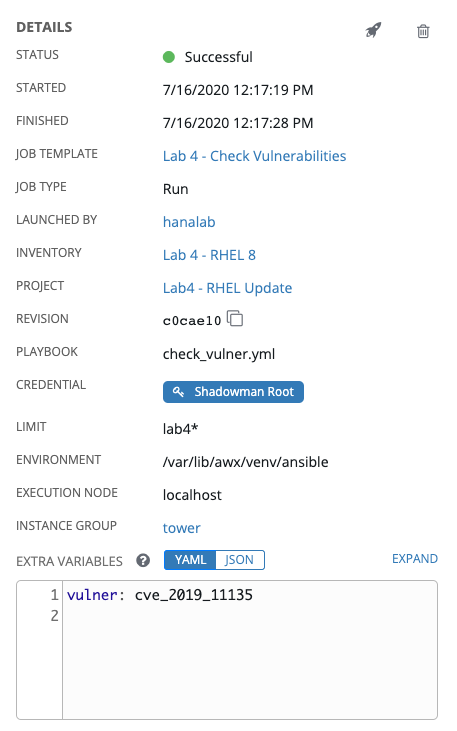
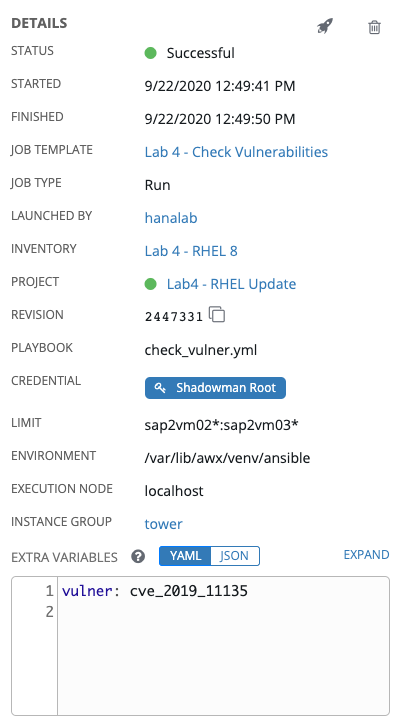
revise Lab 4 Guide to work on sap2vm* and remove the need to reset the VMS. rename the original lab 4 as 4-live-kernel-alt

diff --git a/exercises/4-live-kernel-alt/README.md b/exercises/4-live-kernel-alt/README.md
@@ -74,7 +74,10 @@ playbook.
 Step 7:
 -------
 
-When the job has successfully completed, you should see which systems are vulnerable (yes/no).
+When the job has successfully completed, you should see which systems are vulnerable:
+
+0: not vulnerable
+1: vulnerable
 
 Validating Smart Inventory
 ======================
@@ -122,19 +125,9 @@ Click the rocketship icon ![Add](images/at_launch_icon.png) for the
 Step 3:
 -------
 
-When prompted, confirm Limit and click **Next**.
-
-Step 4:
--------
-
-Click **LAUNCH**.
-
-Step 5:
--------
-
 When the job has successfully completed, you should see the systems that are patched in the details view:
 
-![Play and Task Output](images/4-job-summary-output-2.png)
+![Play and Task Output](images/4-job-summary-output.png)
 
 Re-checking Vulnerable Systems
 ======================
@@ -149,7 +142,10 @@ Select **TEMPLATES** and re-run **Lab 4 - Check Vulnerabilities**
 Step 2:
 -------
 
-After answering the survey question and running, validate that systems are not vulnerable anymore.
+After answering the survey question and running, validate that systems are not vulnerable anymore:
+
+0: not vulnerable
+1: vulnerable
 
 Step 3:
 -------
@@ -216,63 +212,54 @@ Click PROMPT ![Prompt](images/at_prompt.png)
 Step 8:
 -------
 
-When prompted, select the default limit:
-
-![Survey Prompt](images/4-survey-prompt-0.png)
-
-Select **NEXT** and preview the inputs.
-
-Step 9:
--------
-
 When prompted, select **cve_2019_11135**
 
 ![Survey Prompt](images/4-survey-prompt.png)
 
 Select **NEXT** and preview the inputs.
 
-Step 10:
+Step 9:
 -------
 
 Select CONFIRM ![SurveyC](images/4-survey-confirm.png)
 
-Step 11:
+Step 10:
 --------
 
 Click SELECT ![Select](images/at_select.png)
 
-Step 12:
+Step 11:
 --------
 
 Hover over the newly added **Lab 4 -Check Vulnerabilities box** and click ![PlusW](images/at_wf_plus.png)
 
 ![Add a new job template to canvas](images/4-wf-add-jt-to-canvas.png)
 
-Step 13:
+Step 12:
 --------
 
 In **ADD A NODE** dialog box on the right side of the window, select **Lab 4 - Live Kernel Patch**
 
 ![Add Lab 4 - Live Kernel Patch Job Template](images/4-wf-add-live-kernel-patch-jt.png)
 
-Step 14:
+Step 13:
 --------
 
 Click SELECT ![Select](images/at_select.png)
 
-Step 15:
+Step 14:
 --------
 
 Repeat steps 6-10 and add **Lab 4 - Check Vulnerabilities** again as the 3rd node.
 
 ![Workflow Template](images/4-wf-template-1.png)
 
-Step 16:
+Step 15:
 -------
 
 Select SAVE ![Save](images/at_save.png)
 
-Step 17:
+Step 16:
 -------
 
 Back on the main Workflow Template page, select SAVE
@@ -310,13 +297,9 @@ Step 4:
 
 Review the details of each node, are the results as expected? Any vulnerability found?
 
-**Hint**: Vulnerabilities were previously fixed on all HANA servers but not on the S4 host.
-
 Challenge Exercise: Reset the lab and add approval step in the workflow
 ======================
 
-In this challenge exercise, you will incorporate Lab 4 - Reset VM node and an approval node in the workflow and re-run. This time add S4 host to the limit to check and potentiall fix any vulnerabilities.
-
-**Hint**: You can either change the limit for both 'Lab 4 - Check Vulnerabilities' and 'Lab 4 - Live Kernel Patch' job templates (i.e. sap2vm* or sap2vm01*:sap2vm02*:sap2vm03*).
+In this challenge exercise, you will incorporate Lab 4 - Reset VM node and an approval node in the workflow and re-run.
 
 ![Challenge - Workflow Template](images/4-wf-challenge.png)

diff --git a/exercises/5-zero-downtime/README.md b/exercises/5-zero-downtime/README.md
@@ -1,4 +1,11 @@
 Zero downtime patching
 =========================
 
-< Put lab instructions here >
+Your company is now out of the critical phase experienced in the previous lab and it’s time for monthly patching.
+Key requirement here is to perform patching without disrupting services running and automatically perform OS and application patches while rebooting and keeping the services up & running in HA configuration.
+
+In a real world environment, you can also incorporate any manual steps that may be required into the workflow process, for example HW upgrade or fixes.
+
+
+
+
